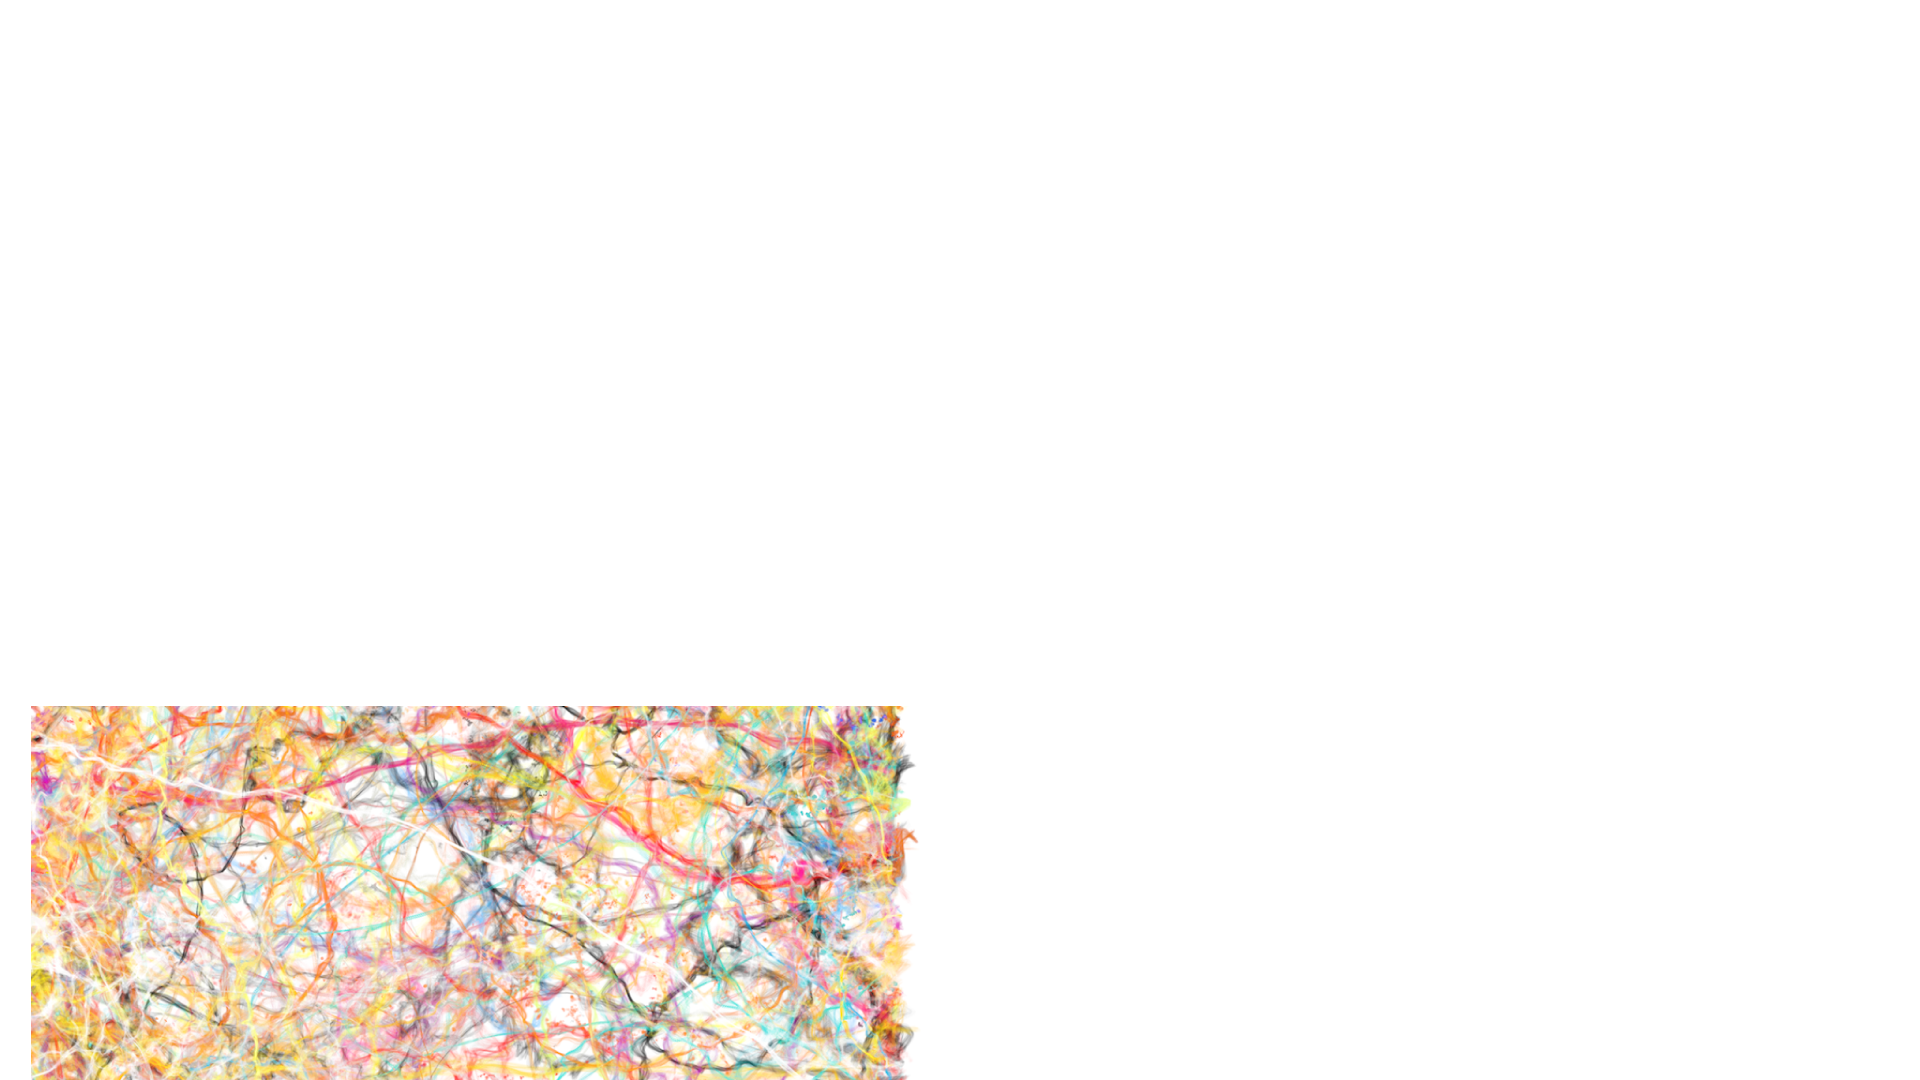
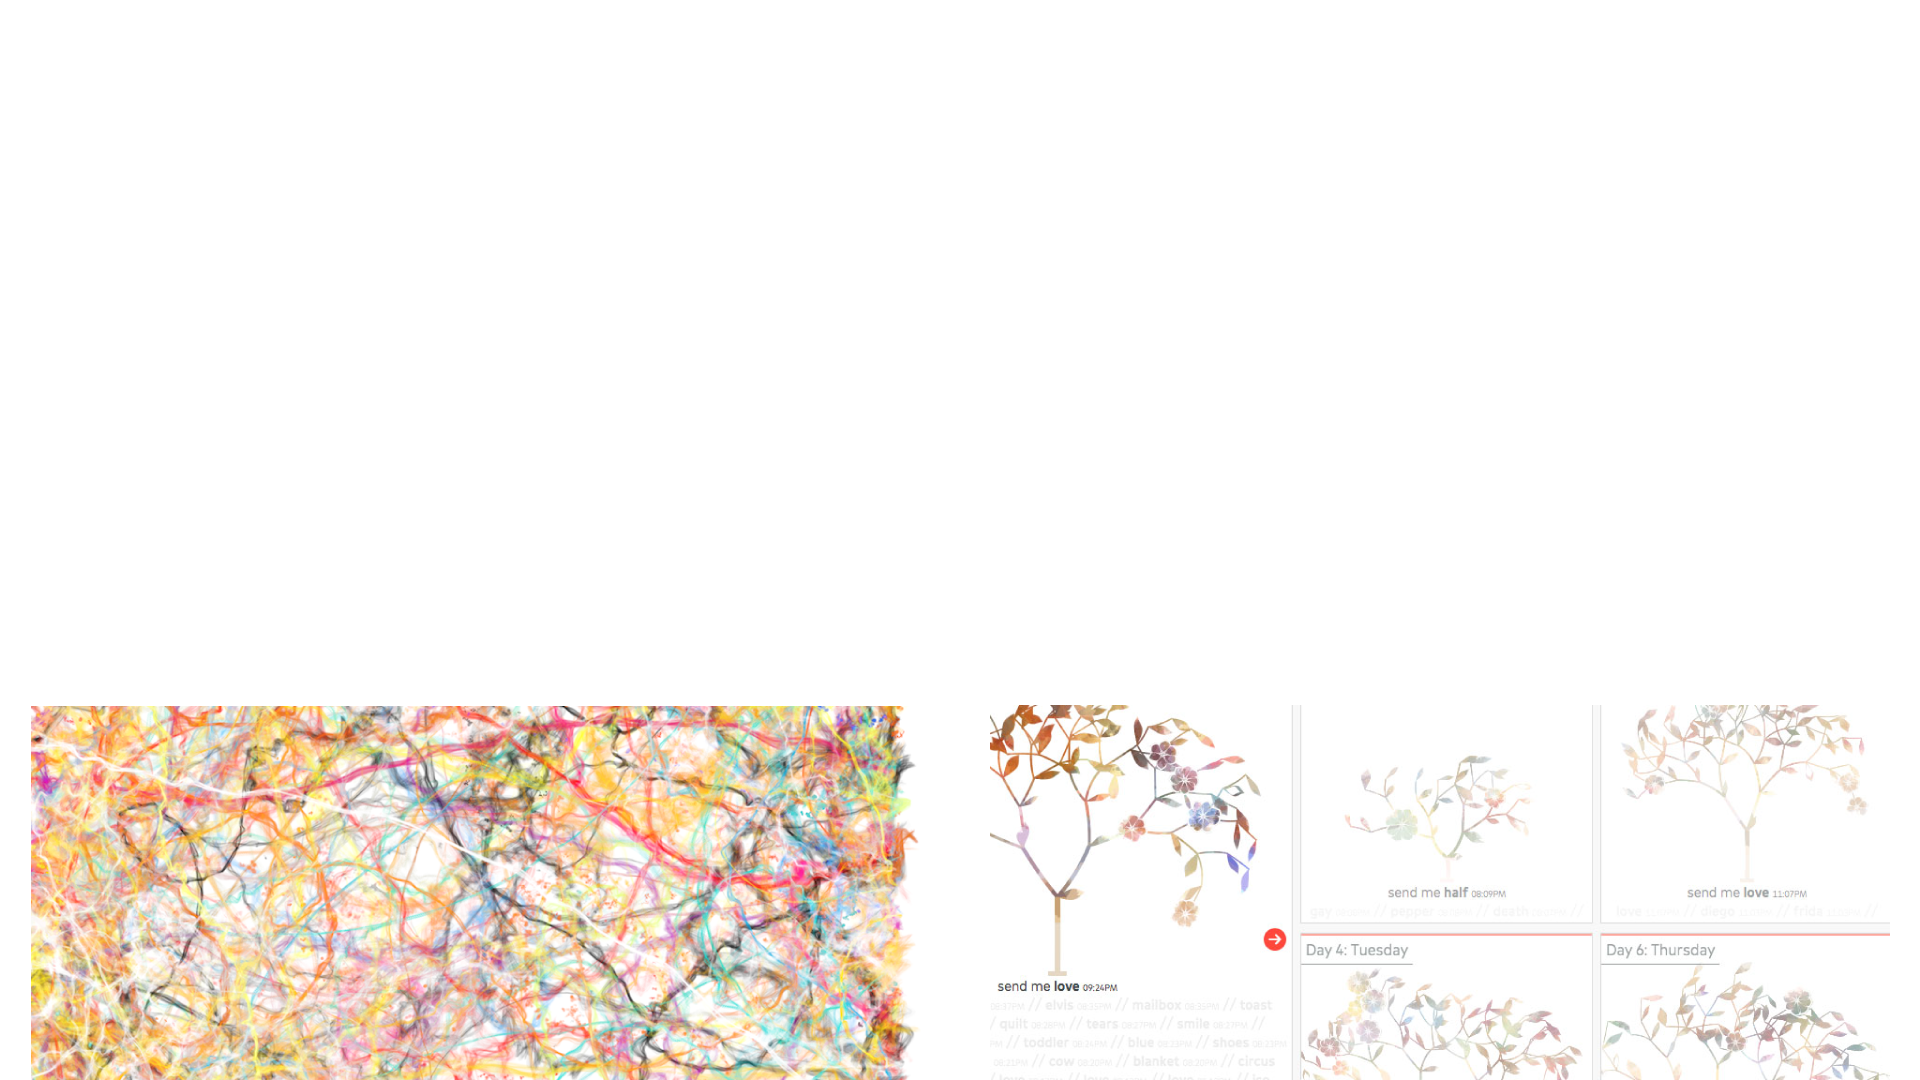
Updated images with Shirley's final projects

diff --git a/index-20.html b/index-20.html
@@ -1,0 +1,286 @@
+<!doctype html>
+<html lang="en">
+
+	<head>
+		<meta charset="utf-8">
+		<meta name="viewport" content="width=device-width, initial-scale=1.0, maximum-scale=1.0, user-scalable=no, minimal-ui">
+
+		<title>data sketches | a visualization a month</title>
+
+		<meta name="description" content="data sketches | a visualization a month">
+		<meta name="author" content="Nadieh Bremer & Shirley Wu">
+	    <meta name="keywords" content="data, visualization, data visualization, information, information visualization, information visualization, dataviz, infoviz, collaboration, data art">
+
+		<!-- Favicon -->
+		<link rel="icon" type="image/png" sizes="192x192" href="lib/img/favicon-192x192.png" />
+		<link rel="icon" type="image/png" sizes="96x96" href="lib/img/favicon-96x96.png" />
+		<link rel="icon" type="image/png" sizes="32x32" href="lib/img/favicon-32x32.png" />
+		<link rel="icon" type="image/png" sizes="16x16" href="lib/img/favicon-16x16.png" />
+			
+		<meta property="og:title" content="data sketches | a visualization a month">
+		<meta property="og:site_name" content="data sketch|es">
+		<meta property="og:url" content="https://github.com/nbremer/datasketchespresentation">
+		<meta property="og:description" content="A presentation about many of the lessons learned during datasketch|es">
+		<meta property="og:type" content="article">
+		<meta property="og:locale" content="en_US">
+
+		<!-- <meta property="og:image" content="http://www.datasketch.es/january/code/nadieh/img/all_fights_DBZ.jpg">
+		<meta property="og:image:type" content="image/jpeg">
+		<meta property="og:image:width" content="1140">
+		<meta property="og:image:height" content="570"> -->
+
+		<meta name="twitter:card" content="summary_large_image">
+		<meta name="twitter:site" content="@datasketches">
+		<meta name="twitter:creator" content="@datasketches">
+		<meta name="twitter:title" content="data sketches | a visualization a month">
+		<meta name="twitter:description" content="A presentation about many of the lessons learned during datasketch|es">
+		<!-- <meta name="twitter:image:src" content="http://www.datasketch.es/january/code/nadieh/img/all_fights_DBZ.jpg"> -->
+
+		<!-- Styles -->
+		<link rel="stylesheet" href="css/reveal.css">
+		<link rel="stylesheet" href="css/style.css" id="theme">
+
+		<!-- Code syntax highlighting -->
+		<link rel="stylesheet" href="lib/css/monokai-sublime.css">
+
+		<!-- Printing and PDF exports -->
+		<script>
+			var link = document.createElement( 'link' );
+			link.rel = 'stylesheet';
+			link.type = 'text/css';
+			link.href = window.location.search.match( /print-pdf/gi ) ? 'css/print/pdf.css' : 'css/print/paper.css';
+			document.getElementsByTagName( 'head' )[0].appendChild( link );
+		</script>
+
+		<!--[if lt IE 9]>
+		<script src="lib/js/html5shiv.js"></script>
+		<![endif]-->
+	</head>
+
+	<body>
+
+		<div class="reveal">
+
+			<!-- Any section element inside of this container is displayed as a slide -->
+			<div class="slides">
+
+				<!-- Intro -->
+				<section data-external="slides/slide_00/beforeStarting.html"></section>
+				<section data-external="slides/slide_N_48/datasketchesTitle.html"></section>
+				<section data-external="slides/slide_N_46/historyCollage.html"></section>
+				<section data-external="slides/slide_N_47/dataSketchCode.html"></section>
+				<section data-external="slides/slide_N_71/datasketchesAllMonthsIntro.html"></section>
+				<section data-external="slides/slide_N_49/lessonsLearned.html"></section>
+
+				<!-- Data -->
+				<section data-external="slides/slide_N_01/dataTitle.html"></section>
+
+					<!-- Lesson | How to get data -->
+					<section data-external="slides/slide_N_81/topicBooks.html"></section>
+					<section data-external="slides/slide_N_57/findDataGoogle.html"></section>
+					<section data-external="slides/slide_N_58/findDataScrape.html"></section>
+					<section data-external="slides/slide_N_59/findDataAPI.html"></section>
+					<!-- <section data-external="slides/slide_N_62/findDataAsk.html"></section> -->
+					<section data-external="slides/slide_N_61/findDataManualDBZ.html"></section>
+					<!-- <section data-external="slides/slide_N_60/findDataManualButterfly.html"></section> -->
+					<section data-external="slides/slide_N_63/dataLessonFindData.html"></section>
+
+					<!-- Lesson | Check your data -->
+					<section data-external="slides/slide_N_04/olympicIntro.html"></section>
+					<section data-external="slides/slide_N_05/olympicDataSource.html"></section>
+					<section data-external="slides/slide_N_06/dataLessonCheckData.html"></section>
+
+					<!-- Lesson | Precalculate variables -->
+					<!-- <section data-external="slides/slide_N_77/olympicRings.html"></section>
+					<section data-external="slides/slide_N_07/olympicBuildUp.html"></section>
+					<section data-external="slides/slide_N_08/dataLessonPrecalculate.html"></section> -->
+
+				<!-- Sketch-->
+				<section data-external="slides/slide_N_02/sketchTitle.html"></section>
+
+					<!-- Lesson | Design with code -->
+					<section data-external="slides/slide_N_41/sketchVsFinal.html"></section>
+					<section data-external="slides/slide_N_42/olympicFeathersInitial.html"></section>
+					<!-- <section data-external="slides/slide_N_78/royaltyWikiPages.html"></section>
+					<section data-external="slides/slide_N_43/royalConstellationsIntro.html"></section>
+					<section data-external="slides/slide_N_44/royalNetwork.html"></section>
+					<section data-external="slides/slide_N_45/sketchLessonDesignWithCode.html"></section> -->
+
+					<!-- Lesson | Sketch to catch thinking errors -->
+					<!-- <section data-external="slides/slide_N_76/travelPersonalData.html"></section>
+					<section data-external="slides/slide_N_11/travelSketch.html"></section> 
+					<section data-external="slides/slide_N_10/travelIntro.html"></section>
+					<section data-external="slides/slide_N_13/olympicSketch.html"></section> 
+					<section data-external="slides/slide_N_14/sketchLessonSketchRough.html"></section> -->
+
+					<!-- Lesson | Add extra layers of detail -->
+					<section data-external="slides/slide_N_64/extraDetailOlympics.html"></section>
+					<section data-external="slides/slide_N_79/top2000Background.html"></section>
+					<section data-external="slides/slide_N_65/extraDetailTop2000.html"></section>
+					<section data-external="slides/slide_N_67/sketchLessonAddDetail.html"></section>
+
+
+				<!-- Code -->
+				<section data-external="slides/slide_N_03/codeTitle.html"></section>
+
+					<!-- Lesson | Remix what's out there -->
+					<section data-external="slides/slide_N_80/lotrData.html"></section>
+					<section data-external="slides/slide_N_18/lotrSketch.html"></section>
+					<section data-external="slides/slide_N_16/chordToLoom.html"></section>
+					<section data-external="slides/slide_N_17/chordToLoom2.html" data-transition-speed="slow"></section>
+					<section data-external="slides/slide_N_19/codeLessonRemix.html" data-transition-speed="default"></section>
+
+					<!-- Lesson | Learn to love SVG paths -->
+					<section data-external="slides/slide_N_21/svgPathExampleRoyals.html"></section>
+					<section data-external="slides/slide_N_22/svgPathExampleMagic.html"></section>
+					<section data-external="slides/slide_N_68/olympicFeatherShapes.html"></section>
+					<section data-external="slides/slide_N_24/lotrSVGPathSketch.html"></section>
+					<section data-external="slides/slide_N_82/ccsLineShapes.html"></section>
+					<section data-external="slides/slide_N_23/dbzIntro.html"></section>
+					<section data-external="slides/slide_N_25/dbzPathSimple.html"></section>
+					<section data-external="slides/slide_N_26/dbzSVGPathSketch.html"></section>
+					<section data-external="slides/slide_N_27/dbzPathFinal.html"></section>
+					<section data-external="slides/slide_N_20/codeLessonSVGpaths.html"></section>
+
+					<!-- Lesson | Learn to love math -->
+					<!-- <section data-external="slides/slide_N_33/inEnglishIntro.html"></section>
+					<section data-external="slides/slide_N_34/inEnglishWordSwirl.html"></section>
+					<section data-external="slides/slide_N_35/inEnglishWorkSnakeSketches.html"></section>
+					<section data-external="slides/slide_N_72/wordSnakeSizes.html"></section>
+					<section data-external="slides/slide_N_36/inEnglishNetworkBefore.html"></section>
+					<section data-external="slides/slide_N_37/inEnglishNetworkBad.html"></section>
+					<section data-external="slides/slide_N_38/inEnglishNetworkSketches.html"></section>
+					<section data-external="slides/slide_N_40/inEnglishNetworkGood.html"></section>
+					<section data-external="slides/slide_N_39/codeLessonLoveMath.html"></section> -->
+
+					<!-- Lesson | The other stuff matters too -->
+					<!-- <section data-external="slides/slide_N_69/butterflyDataIntro.html"></section>
+					<section data-external="slides/slide_N_70/marbleButterfliesFinal.html"></section>
+					<section data-external="slides/slide_N_28/magicLegend.html"></section>
+					<section data-external="slides/slide_N_29/dbzGifs.html"></section>
+					<section data-external="slides/slide_N_30/top2000Vinyls.html"></section>
+					<section data-external="slides/slide_N_31/olympicAnnotations.html"></section>
+					<section data-external="slides/slide_N_32/codeLessonOtherStuff.html"></section> -->
+
+				<!-- Soft stuff -->
+				<!-- <section data-external="slides/slide_N_53/softStuffTitle.html"></section>
+				<section data-external="slides/slide_N_56/datasketchesTogether.html"></section>
+				<section data-external="slides/slide_N_55/struggles.html"></section> -->
+				
+				<!-- Shirley examples -->
+				<!-- <section data-external="slides/slide_N_73/shirleyFilmFlowers.html"></section>
+				<section data-external="slides/slide_N_74/shirleyHamilton.html"></section> -->
+
+				<!-- End -->
+				<section data-external="slides/slide_N_50/datasketchesAllMonths.html"></section>
+				<section data-external="slides/slide_N_52/endSlide.html"></section>
+
+			</div>
+
+		</div>
+
+		<!-- REVEAL -->
+		<script src="lib/js/head.min.js"></script>
+		<script src="js/reveal.js"></script>
+
+		<!-- JQUERY -->
+		<script src="js/jquery-1.12.0.min.js"></script>
+		<!-- <script src="//code.jquery.com/jquery-1.12.0.min.js"></script> -->
+
+		<!-- UNDERSCORE -->
+		<script src="js/underscore.js"></script>
+
+		<!-- D3 -->
+		<script src="js/d3.v4.min.js"></script>
+		<script src="js/d3-annotation.min.js"></script>
+
+		<!-- REVEAL TO D3 -->
+		 <script src="js/reveal-to-d3-config.js"></script>
+		 <script src="js/reveal-to-d3.js"></script>
+
+		<!-- *************************************************** -->
+		<!-- ******** NADIEH'S & SHIRLEY's D3 SCRIPTS ********** -->
+		<!-- *************************************************** -->
+
+		<!-- Some helper functions that are used by several D3 scripts -->
+		<script src="js/helperFunctions.js"></script>
+
+		<!-- Intro -->
+		<script src="slides/slide_N_48/datasketchesTitle.js"></script>
+
+		<!-- Data -->
+		<script src="slides/slide_N_04/olympic_data.min.js"></script>
+		<script src="slides/slide_N_04/olympicIntro.js"></script>
+		<script src="slides/slide_N_07/olympicBuildUp.js"></script>
+
+		<!-- Sketch -->
+		<script src="slides/slide_N_44/royalNetworkNodes.js"></script>
+		<script src="slides/slide_N_44/royalNetworkLinks.js"></script>
+		<script src="slides/slide_N_44/royalNetwork.js"></script>
+		<script src="slides/slide_N_10/travelIntro.js"></script>
+		<script src="slides/slide_N_65/extraDetailTop2000.js"></script>
+		<!-- <script src="slides/slide_N_66/magicNameArcs.js"></script> -->
+
+		<!-- Code -->
+		<script src="slides/slide_N_15/lotrWordsData.js"></script>
+		<!-- <script src="slides/slide_N_15/lotrIntro.js"></script> -->
+		<script src="slides/slide_N_16/chordToLoom.js"></script>
+		<script src="slides/slide_N_17/chordToLoom2.js"></script>
+
+		<script src="slides/slide_N_25/dbzFights.js"></script>
+		<script src="slides/slide_N_25/dbzPathSimple.js"></script>
+		<script src="slides/slide_N_27/dbzPathFinal.js"></script>
+
+		<script src="slides/slide_N_72/top1.js"></script>
+		<script src="slides/slide_N_72/top100Overall.js"></script>
+		<script src="slides/slide_N_72/wordSnakeSizes.js"></script>
+		<script src="slides/slide_N_37/networkLinks.js"></script>
+		<script src="slides/slide_N_37/inEnglishNetwork.js"></script>
+
+		<script src="slides/slide_N_70/tinyColor.js"></script>
+		<script src="slides/slide_N_70/butterflies.js"></script>
+		<script src="slides/slide_N_70/marbleButterfliesFinal.js"></script>
+		<script src="slides/slide_N_28/magicLegend.js"></script>
+
+		<!-- Soft stuff -->
+
+		<!-- Conclusion -->
+		<script src="slides/slide_N_52/endSlide.js"></script>
+
+		<!-- REVEAL INIT -->
+		<script>
+
+			// Full list of configuration options available at:
+			// https://github.com/hakimel/reveal.js#configuration
+			Reveal.initialize({
+				controls: false,
+				progress: false,
+				history: true,
+				center: true,
+				// The "normal" size of the presentation, aspect ratio will be preserved
+			    // when the presentation is scaled to fit different resolutions. Can be
+			    // specified using percentage units.
+			    width: 1920, //'100%',
+			    height: 1080, //'100%',
+			    // Factor of the display size that should remain empty around the content
+    			margin: 0,
+				// Bounds for smallest/largest possible scale to apply to content
+    			minScale: 0.2,
+    			maxScale: 4,
+
+				transition: 'fade', // none/fade/slide/convex/concave/zoom
+
+				// Optional reveal.js plugins
+				dependencies: [
+					{ src: 'plugin/external/external.js', condition: function() { return !!document.querySelector( '[data-external]' ); } },
+					{ src: 'lib/js/classList.js', condition: function() { return !document.body.classList; } },
+					//{ src: 'plugin/highlight/highlight.js', async: false, callback: function() { hljs.initHighlightingOnLoad(); } },
+					{ src: 'plugin/zoom-js/zoom.js', async: true },
+					{ src: 'plugin/notes/notes.js', async: true }
+				]
+			});
+
+		</script>
+
+	</body>
+</html>

diff --git a/slides/slide_N_61/findDataManualDBZ.html b/slides/slide_N_61/findDataManualDBZ.html
@@ -3,6 +3,32 @@
 		padding-top: 0px;
 		height: 1080px;
 	}
+    .find-data-manual .slide-images {
+		height: 1080px;
+		position: relative; 
+		margin: 0 auto;
+	}
+	.find-data-manual .slide-words {
+		position: absolute;
+		top: 5%;
+		left: 50%;
+		transform: translateX(-50%);
+	}
+	.find-data-manual .title {
+		font-size: 170px;
+		font-weight: 400;
+		background-image: linear-gradient(135deg, rgba(244,209,198,1) 0%, rgba(229,172,192,1) 100%);
+		-webkit-text-fill-color: transparent; 
+		color: transparent; 
+		-webkit-background-clip: text; 
+		background-clip: text;    
+	}
+	.find-data-manual .sub-title {
+		font-size: 40px;
+	}
+	.find-data-manual .gingham-filter {
+		filter: sepia(0%) brightness(105%) contrast(100%) saturate(100%) hue-rotate(350deg);
+	}
 </style>
 
 <section id="find-data-manual-dbz">
